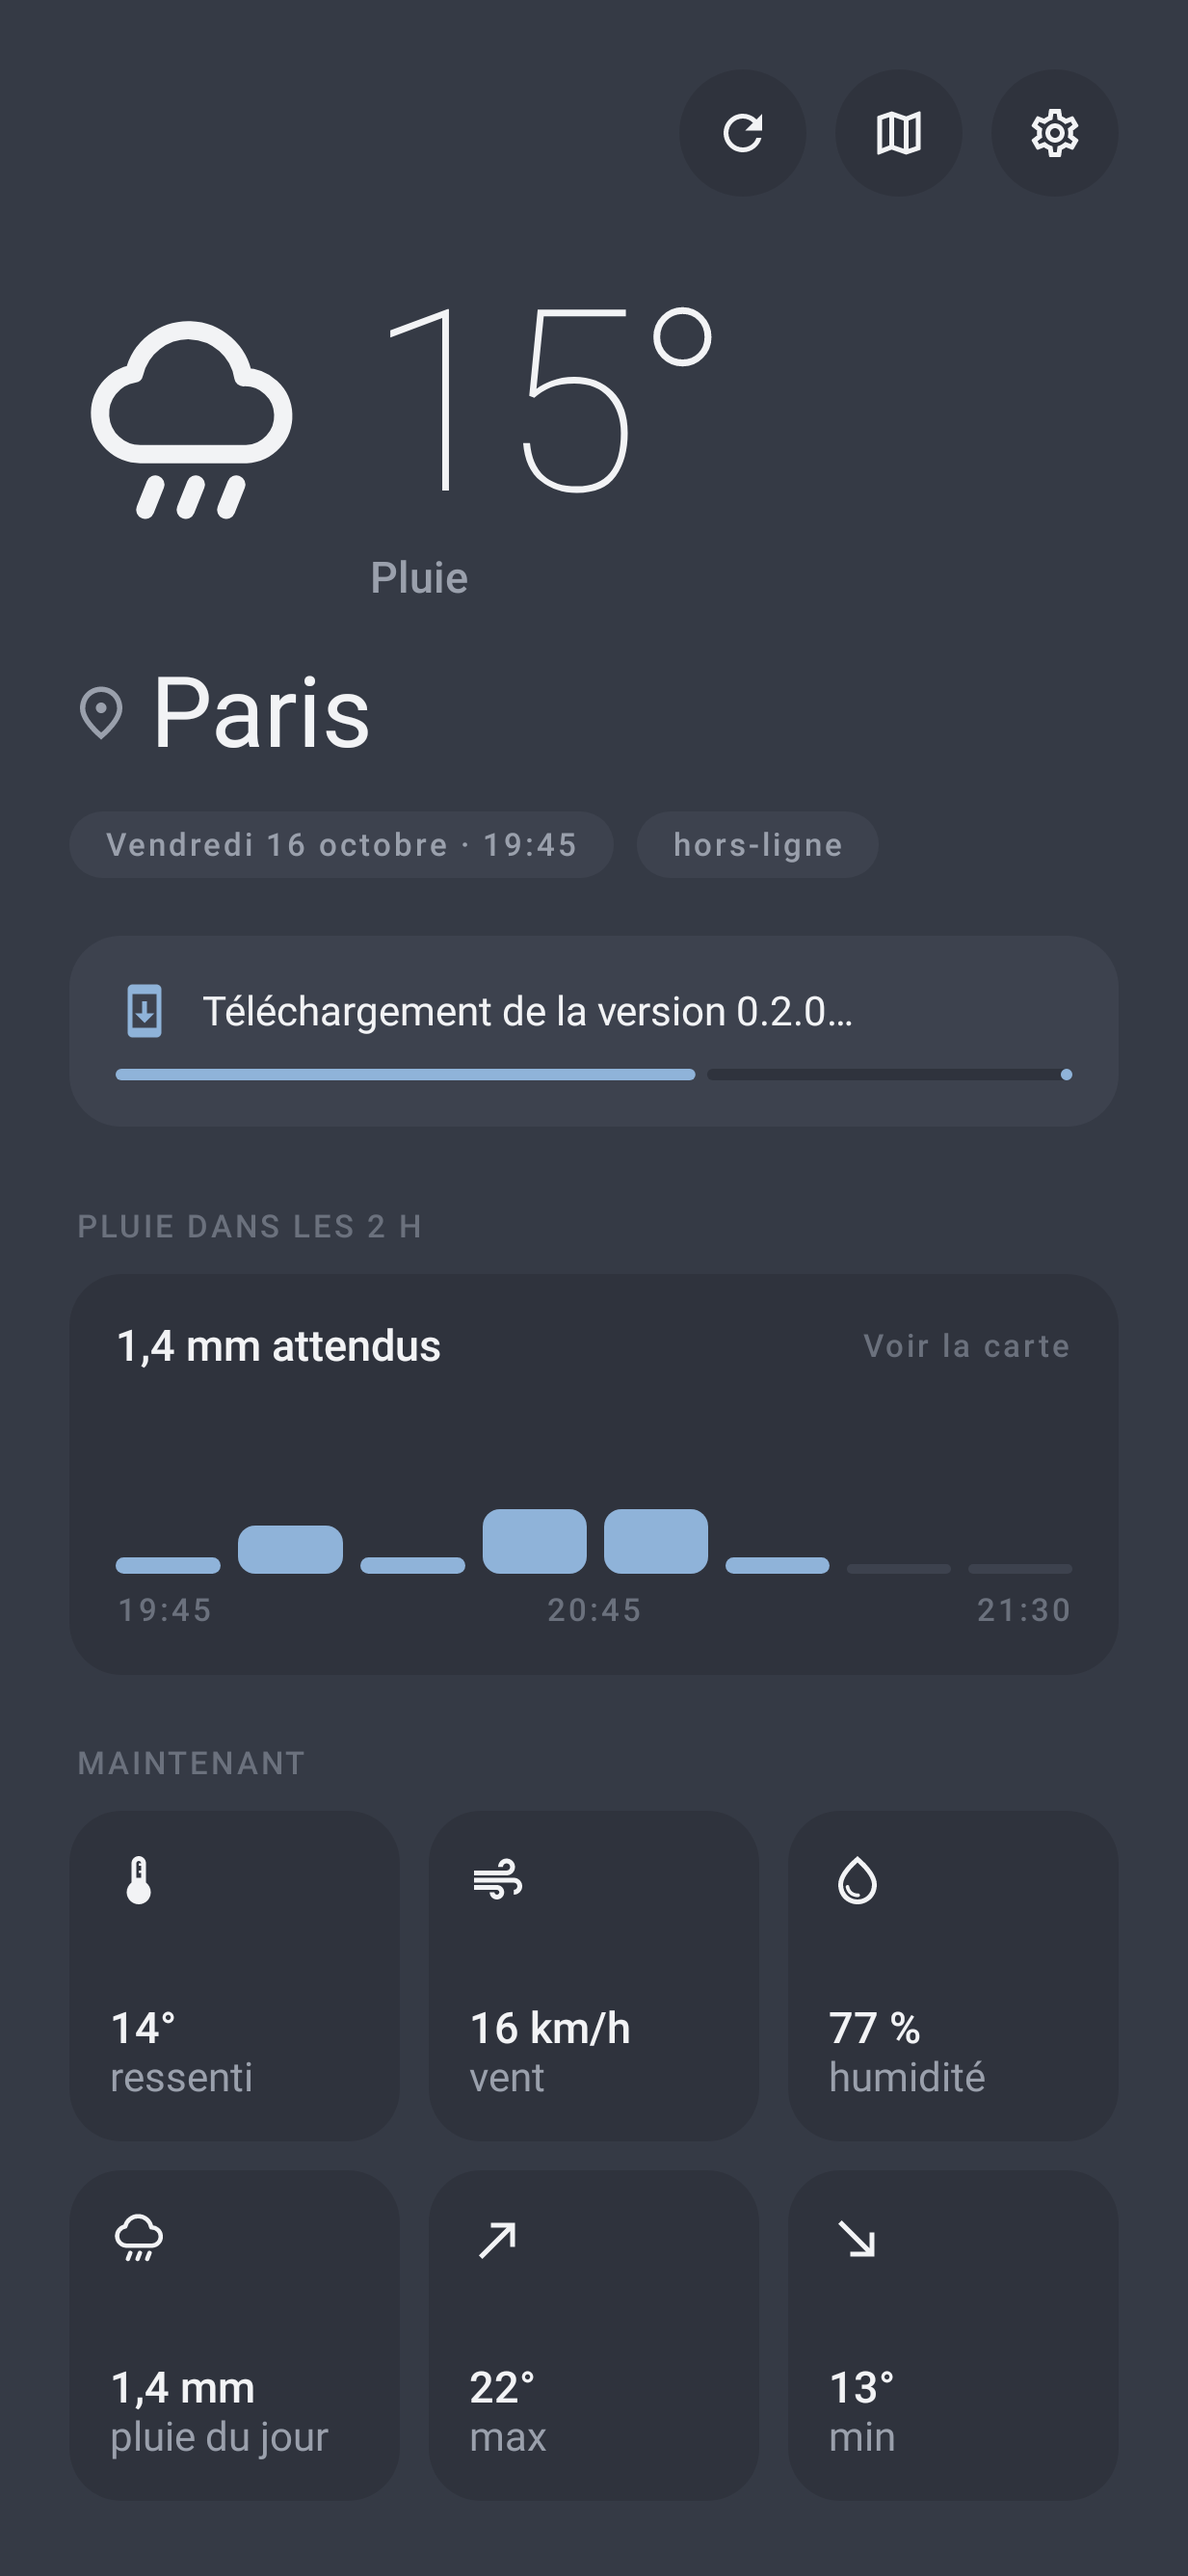
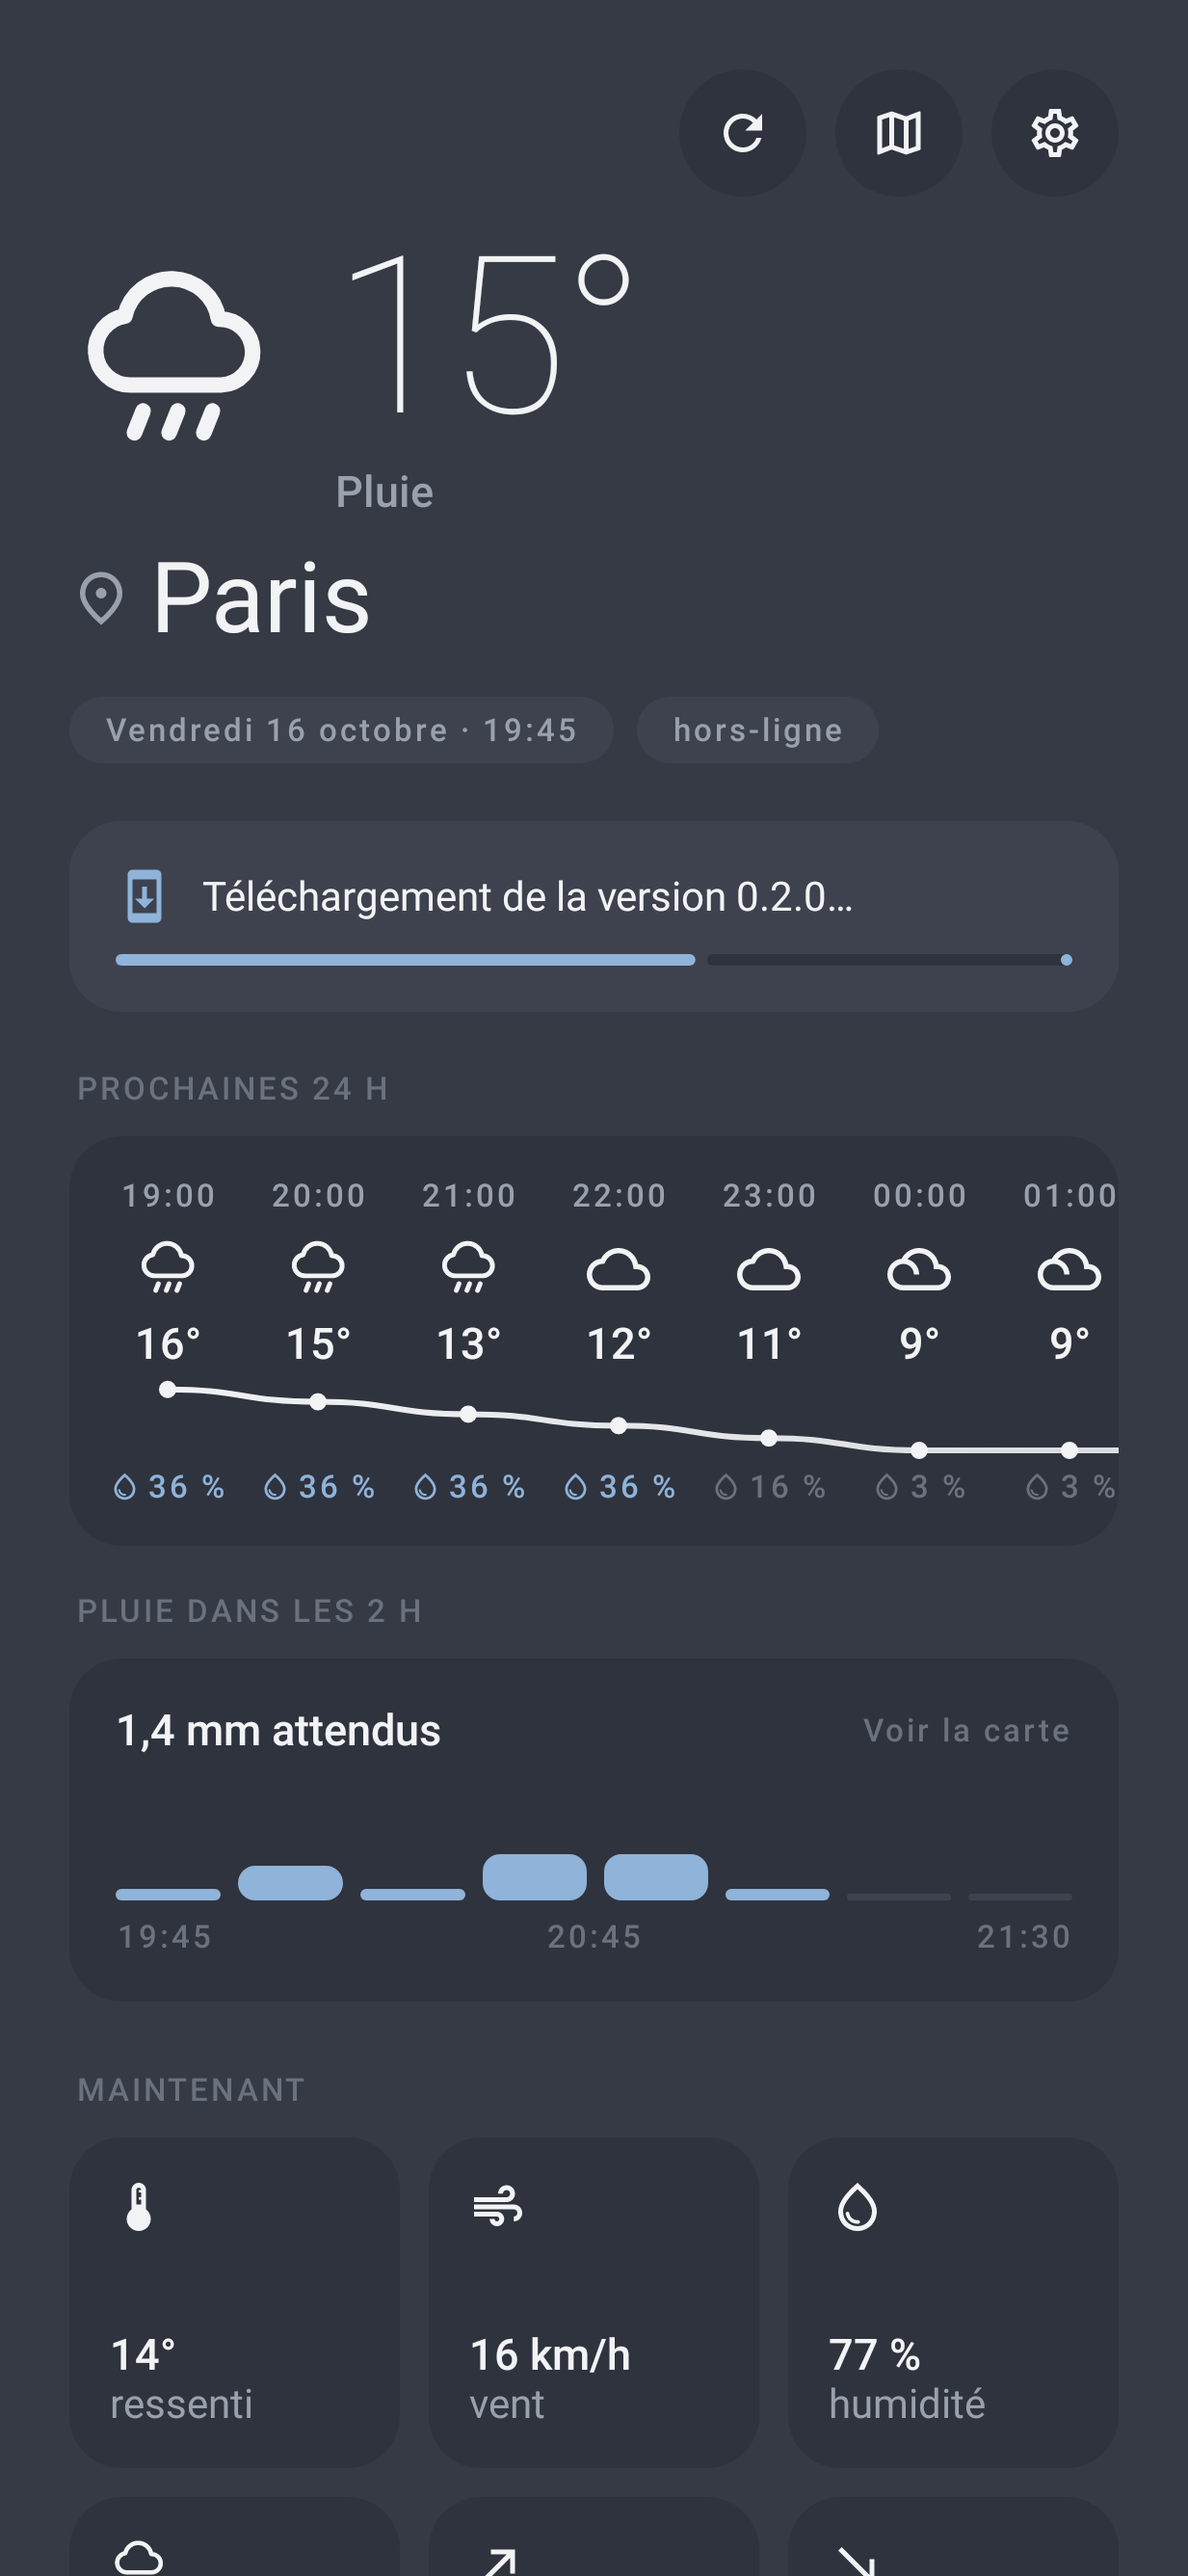
Accueil : graphique des températures sur 24 h, en-tête plus compact
Courbe lissée, icônes et probabilité de pluie heure par heure (défilement horizontal),
au-dessus du bloc pluie 2 h.

Claude-Session: https://claude.ai/code/session_01VhSL2CRbYz8j8n8SGyW4DJ

diff --git a/android-app/app/src/main/java/com/namm/meteo/ui/forecast/HourlyTile.kt b/android-app/app/src/main/java/com/namm/meteo/ui/forecast/HourlyTile.kt
@@ -1,0 +1,115 @@
+package com.namm.meteo.ui.forecast
+
+import androidx.compose.foundation.Canvas
+import androidx.compose.foundation.background
+import androidx.compose.foundation.horizontalScroll
+import androidx.compose.foundation.layout.Column
+import androidx.compose.foundation.layout.Row
+import androidx.compose.foundation.layout.Spacer
+import androidx.compose.foundation.layout.fillMaxWidth
+import androidx.compose.foundation.layout.height
+import androidx.compose.foundation.layout.padding
+import androidx.compose.foundation.layout.size
+import androidx.compose.foundation.layout.width
+import androidx.compose.foundation.rememberScrollState
+import androidx.compose.material.icons.Icons
+import androidx.compose.material.icons.outlined.WaterDrop
+import androidx.compose.material3.Icon
+import androidx.compose.material3.MaterialTheme
+import androidx.compose.material3.Text
+import androidx.compose.runtime.Composable
+import androidx.compose.ui.Alignment
+import androidx.compose.ui.Modifier
+import androidx.compose.ui.draw.clip
+import androidx.compose.ui.geometry.Offset
+import androidx.compose.ui.graphics.Brush
+import androidx.compose.ui.graphics.Path
+import androidx.compose.ui.graphics.StrokeCap
+import androidx.compose.ui.graphics.drawscope.Stroke
+import androidx.compose.ui.text.style.TextAlign
+import androidx.compose.ui.unit.Dp
+import androidx.compose.ui.unit.dp
+import com.namm.meteo.domain.HourlyForecast
+import com.namm.meteo.domain.WeatherCondition
+import com.namm.meteo.ui.components.TileShape
+import com.namm.meteo.ui.components.icon
+import com.namm.meteo.ui.theme.Slate
+import kotlin.math.roundToInt
+
+private val ColumnWidth = 52.dp
+private val CurveHeight = 34.dp
+
+/** Prochaines 24 h : heure, icône, température, courbe et probabilité de pluie (défilement horizontal). */
+@Composable
+fun HourlyTile(hours: List<HourlyForecast>) {
+    if (hours.isEmpty()) return
+    Column(Modifier.fillMaxWidth().clip(TileShape).background(Slate.Tile).padding(vertical = 14.dp)) {
+        Column(Modifier.horizontalScroll(rememberScrollState()).padding(horizontal = 8.dp)) {
+            HourRow(hours) { Text(it.time.substringAfter('T'), color = Slate.Secondary, style = MaterialTheme.typography.labelSmall) }
+            Spacer(Modifier.height(8.dp))
+            HourRow(hours) {
+                val condition = WeatherCondition.fromWmo(it.weatherCode)
+                Icon(condition.icon(), condition.label, tint = Slate.Primary, modifier = Modifier.size(22.dp))
+            }
+            Spacer(Modifier.height(6.dp))
+            HourRow(hours) {
+                Text("${it.temperature.roundToInt()}°", color = Slate.Primary, style = MaterialTheme.typography.titleMedium)
+            }
+            TemperatureCurve(hours, ColumnWidth * hours.size)
+            HourRow(hours) {
+                val p = it.precipitationProbability
+                Row(verticalAlignment = Alignment.CenterVertically) {
+                    Icon(
+                        Icons.Outlined.WaterDrop, null,
+                        tint = if (p >= 30) Slate.Rain else Slate.Muted,
+                        modifier = Modifier.size(11.dp),
+                    )
+                    Spacer(Modifier.width(2.dp))
+                    Text(
+                        "$p %",
+                        color = if (p >= 30) Slate.Rain else Slate.Muted,
+                        style = MaterialTheme.typography.labelSmall,
+                        textAlign = TextAlign.Center,
+                    )
+                }
+            }
+        }
+    }
+}
+
+@Composable
+private fun HourRow(hours: List<HourlyForecast>, cell: @Composable (HourlyForecast) -> Unit) {
+    Row {
+        hours.forEach {
+            Column(Modifier.width(ColumnWidth), horizontalAlignment = Alignment.CenterHorizontally) { cell(it) }
+        }
+    }
+}
+
+/** Courbe lissée des températures, un point au centre de chaque colonne. */
+@Composable
+private fun TemperatureCurve(hours: List<HourlyForecast>, width: Dp) {
+    Canvas(Modifier.width(width).height(CurveHeight)) {
+        val temps = hours.map { it.temperature }
+        val min = temps.min()
+        val range = (temps.max() - min).coerceAtLeast(1.0)
+        val pad = 6.dp.toPx()
+        val step = size.width / hours.size
+        val points = temps.mapIndexed { i, t ->
+            Offset(step * (i + 0.5f), pad + ((1 - (t - min) / range) * (size.height - 2 * pad)).toFloat())
+        }
+        val path = Path().apply {
+            moveTo(points.first().x, points.first().y)
+            points.zipWithNext().forEach { (a, b) ->
+                val mid = (a.x + b.x) / 2
+                cubicTo(mid, a.y, mid, b.y, b.x, b.y)
+            }
+        }
+        drawPath(
+            path,
+            brush = Brush.horizontalGradient(listOf(Slate.Primary, Slate.Secondary)),
+            style = Stroke(width = 2.dp.toPx(), cap = StrokeCap.Round),
+        )
+        points.forEach { drawCircle(Slate.Primary, radius = 3.dp.toPx(), center = it) }
+    }
+}

diff --git a/android-app/app/src/main/java/com/namm/meteo/ui/forecast/ForecastScreen.kt b/android-app/app/src/main/java/com/namm/meteo/ui/forecast/ForecastScreen.kt
@@ -118,9 +118,9 @@ fun ForecastContent(
         }
 
         // Météo actuelle : icône + température, puis le lieu juste en dessous.
-        Spacer(Modifier.height(20.dp))
+        Spacer(Modifier.height(4.dp))
         Row(verticalAlignment = Alignment.CenterVertically) {
-            Icon(condition.icon(), condition.label, tint = Slate.Primary, modifier = Modifier.size(84.dp))
+            Icon(condition.icon(), condition.label, tint = Slate.Primary, modifier = Modifier.size(72.dp))
             Spacer(Modifier.width(20.dp))
             Column {
                 Text(
@@ -131,7 +131,7 @@ fun ForecastContent(
                 Text(condition.label, style = MaterialTheme.typography.titleMedium, color = Slate.Secondary)
             }
         }
-        Spacer(Modifier.height(14.dp))
+        Spacer(Modifier.height(4.dp))
         Row(
             Modifier.clip(RoundedCornerShape(12.dp)).clickable(onClick = onOpenSettings).padding(vertical = 4.dp),
             verticalAlignment = Alignment.CenterVertically,
@@ -158,7 +158,11 @@ fun ForecastContent(
 
         UpdateBanner(update, onUpdateAction)
 
-        Spacer(Modifier.height(28.dp))
+        Spacer(Modifier.height(20.dp))
+        SectionLabel("PROCHAINES 24 H")
+        HourlyTile(forecast.hours)
+
+        Spacer(Modifier.height(16.dp))
         SectionLabel("PLUIE DANS LES 2 H")
         NowcastTile(forecast.nextPrecipitation, onOpenMap)
 
@@ -237,9 +241,9 @@ private fun NowcastTile(steps: List<PrecipitationStep>, onOpenMap: () -> Unit) {
             )
             Text("Voir la carte", color = Slate.Muted, style = MaterialTheme.typography.labelSmall)
         }
-        Spacer(Modifier.height(14.dp))
+        Spacer(Modifier.height(10.dp))
         Row(
-            Modifier.fillMaxWidth().height(56.dp),
+            Modifier.fillMaxWidth().height(40.dp),
             horizontalArrangement = Arrangement.spacedBy(6.dp),
             verticalAlignment = Alignment.Bottom,
         ) {

diff --git a/android-app/app/src/main/java/com/namm/meteo/data/repository/ForecastRepository.kt b/android-app/app/src/main/java/com/namm/meteo/data/repository/ForecastRepository.kt
@@ -9,6 +9,7 @@ import com.namm.meteo.data.remote.OpenMeteoApi
 import com.namm.meteo.domain.CurrentWeather
 import com.namm.meteo.domain.DailyForecast
 import com.namm.meteo.domain.Forecast
+import com.namm.meteo.domain.HourlyForecast
 import com.namm.meteo.domain.Place
 import com.namm.meteo.domain.PrecipitationStep
 
@@ -55,6 +56,9 @@ class ForecastRepository(
 /** Nombre de pas de 15 min affichés (2 h). */
 private const val NOWCAST_STEPS = 8
 
+/** Nombre d'heures du graphique de températures. */
+private const val HOURLY_COUNT = 24
+
 internal fun ForecastDto.toDomain(): Forecast {
     val c = requireNotNull(current) { "Réponse sans données actuelles" }
     // minutely_15 commence à minuit : on ne garde que les pas à partir du quart d'heure courant.
@@ -64,6 +68,20 @@ internal fun ForecastDto.toDomain(): Forecast {
             .dropWhile { (t, _) -> t < start }
             .take(NOWCAST_STEPS)
             .map { (t, p) -> PrecipitationStep(t, p ?: 0.0) }
+    }.orEmpty()
+    val hours = hourly?.let { h ->
+        val currentHour = c.time.take(13) + ":00"
+        h.time.indices
+            .filter { h.time[it] >= currentHour && h.temperature[it] != null }
+            .take(HOURLY_COUNT)
+            .map { i ->
+                HourlyForecast(
+                    time = h.time[i],
+                    temperature = h.temperature[i]!!,
+                    precipitationProbability = h.precipitationProbability.getOrNull(i) ?: 0,
+                    weatherCode = h.weatherCode.getOrNull(i) ?: c.weatherCode,
+                )
+            }
     }.orEmpty()
     val days = daily?.let { d ->
         d.time.indices.map { i ->
@@ -81,6 +99,7 @@ internal fun ForecastDto.toDomain(): Forecast {
             windSpeed = c.windSpeed,
         ),
         nextPrecipitation = steps,
+        hours = hours,
         days = days,
     )
 }

diff --git a/android-app/app/src/main/java/com/namm/meteo/data/remote/OpenMeteoApi.kt b/android-app/app/src/main/java/com/namm/meteo/data/remote/OpenMeteoApi.kt
@@ -14,6 +14,7 @@ interface OpenMeteoApi {
         @Query("longitude") longitude: Double,
         @Query("current") current: String = "temperature_2m,apparent_temperature,relative_humidity_2m,precipitation,weather_code,wind_speed_10m",
         @Query("minutely_15") minutely15: String = "precipitation",
+        @Query("hourly") hourly: String = "temperature_2m,precipitation_probability,weather_code",
         @Query("daily") daily: String = "temperature_2m_max,temperature_2m_min,precipitation_sum,weather_code",
         @Query("models") models: String = "best_match",
         @Query("timezone") timezone: String = "auto",
@@ -78,6 +79,7 @@ data class ForecastDto(
     val timezone: String = "GMT",
     val current: CurrentDto? = null,
     @SerialName("minutely_15") val minutely15: Minutely15Dto? = null,
+    val hourly: HourlyDto? = null,
     val daily: DailyDto? = null,
 )
 
@@ -96,6 +98,14 @@ data class CurrentDto(
 data class Minutely15Dto(
     val time: List<String>,
     val precipitation: List<Double?>,
+)
+
+@Serializable
+data class HourlyDto(
+    val time: List<String>,
+    @SerialName("temperature_2m") val temperature: List<Double?>,
+    @SerialName("precipitation_probability") val precipitationProbability: List<Int?> = emptyList(),
+    @SerialName("weather_code") val weatherCode: List<Int?> = emptyList(),
 )
 
 @Serializable

diff --git a/android-app/app/src/main/java/com/namm/meteo/domain/Forecast.kt b/android-app/app/src/main/java/com/namm/meteo/domain/Forecast.kt
@@ -3,6 +3,8 @@ package com.namm.meteo.domain
 data class Forecast(
     val current: CurrentWeather,
     val nextPrecipitation: List<PrecipitationStep>,
+    /** Prochaines 24 h, heure par heure (à partir de l'heure en cours). */
+    val hours: List<HourlyForecast> = emptyList(),
     val days: List<DailyForecast>,
 )
 
@@ -25,5 +27,13 @@ data class DailyForecast(
     val tempMin: Double,
     val tempMax: Double,
     val precipitationSum: Double,
+    val weatherCode: Int,
+)
+
+data class HourlyForecast(
+    /** Heure locale ISO, ex. "2026-10-16T21:00". */
+    val time: String,
+    val temperature: Double,
+    val precipitationProbability: Int,
     val weatherCode: Int,
 )

diff --git a/android-app/app/src/main/java/com/namm/meteo/ui/theme/Theme.kt b/android-app/app/src/main/java/com/namm/meteo/ui/theme/Theme.kt
@@ -31,7 +31,7 @@ private val colors = darkColorScheme(
 )
 
 private val typography = Typography(
-    displayLarge = TextStyle(fontSize = 88.sp, fontWeight = FontWeight.ExtraLight, letterSpacing = (-2).sp),
+    displayLarge = TextStyle(fontSize = 76.sp, fontWeight = FontWeight.ExtraLight, letterSpacing = (-2).sp),
     headlineLarge = TextStyle(fontSize = 34.sp, fontWeight = FontWeight.Normal, lineHeight = 40.sp),
     titleMedium = TextStyle(fontSize = 15.sp, fontWeight = FontWeight.Medium),
     bodyMedium = TextStyle(fontSize = 14.sp),

diff --git a/android-app/app/src/test/java/com/namm/meteo/Fixtures.kt b/android-app/app/src/test/java/com/namm/meteo/Fixtures.kt
@@ -14,7 +14,8 @@ import kotlinx.serialization.builtins.ListSerializer
 import kotlin.math.exp
 
 /**
- * Données de test : forecast.json et geocoding.json sont de vraies réponses Open-Meteo ;
+ * Données de test : forecast.json et geocoding.json sont de vraies réponses Open-Meteo
+ * (le bloc « hourly » de forecast.json a été ajouté, cohérent avec les min/max réels) ;
  * grid.json suit le format multi-points documenté (généré, quota sandbox atteint).
  */
 object Fixtures {

diff --git a/android-app/app/src/test/java/com/namm/meteo/data/ForecastMappingTest.kt b/android-app/app/src/test/java/com/namm/meteo/data/ForecastMappingTest.kt
@@ -30,6 +30,14 @@ class ForecastMappingTest {
     }
 
     @Test
+    fun `24 heures à partir de l'heure en cours`() {
+        val forecast = Fixtures.forecastDto().toDomain()
+
+        assertEquals(24, forecast.hours.size)
+        assertEquals(forecast.current.time.take(13) + ":00", forecast.hours.first().time)
+    }
+
+    @Test
     fun `parse une vraie réponse de géocodage`() {
         val places = Fixtures.geocodingDto().toPlaces()
 

diff --git a/CLAUDE.md b/CLAUDE.md
@@ -55,7 +55,7 @@ echo "robolectricRepo=https://maven-central.storage-download.googleapis.com/mave
 - Couches : `ui` (Compose + ViewModel) → `domain` (modèles) → `data` (remote / repository). DI manuelle dans `MeteoApp`.
 - Design **sobre « ardoise »** (voir `ui/theme/Theme.kt`, objet `Slate`) : fond `#353A45`, tuiles arrondies `#2F333D`, texte blanc/gris, grandes typos fines, pastilles discrètes. Pas de couleurs vives hormis le bleu pluie `#8FB3D9`. Le site reprend la même palette.
 - Aucune dépendance publicitaire, analytics ou Google Play Services (compatibilité F-Droid).
-- Tests : fixtures dans `app/src/test/resources/` (`forecast.json`, `geocoding.json` réelles ; `grid.json` au format multi-points) ; tout nouvel écran a un test Roborazzi (`ScreenshotTest`, application neutre `android.app.Application` pour éviter WorkManager).
+- Tests : fixtures dans `app/src/test/resources/` (`forecast.json`, `geocoding.json` réelles — bloc `hourly` de `forecast.json` complété ; `grid.json` au format multi-points) ; tout nouvel écran a un test Roborazzi (`ScreenshotTest`, application neutre `android.app.Application` pour éviter WorkManager).
 - Accueil = position GPS par défaut ; lieux préenregistrés gérés dans Paramètres (`SettingsStore`).
 
 ## Release & signature
